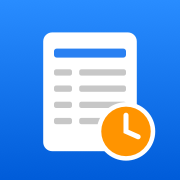
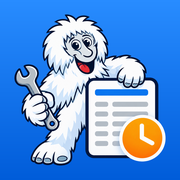
Neues App-Symbol mit Yeti auf blauem Hintergrund
Eigene Variante mit mehr Rand für Android („maskable“).

diff --git a/sw.js b/sw.js
@@ -1,5 +1,5 @@
 // Offline-Cache: Mit Internet wird immer die neueste Version geladen, ohne Internet die gespeicherte.
-const CACHE = 'stundenzettel-v16';
+const CACHE = 'stundenzettel-v17';
 const ASSETS = [
   './',
   'index.html',
@@ -11,6 +11,7 @@ const ASSETS = [
   'icons/apple-touch-icon.png',
   'icons/icon-192.png',
   'icons/icon-512.png',
+  'icons/icon-maskable-512.png',
 ];
 
 self.addEventListener('install', (event) => {
